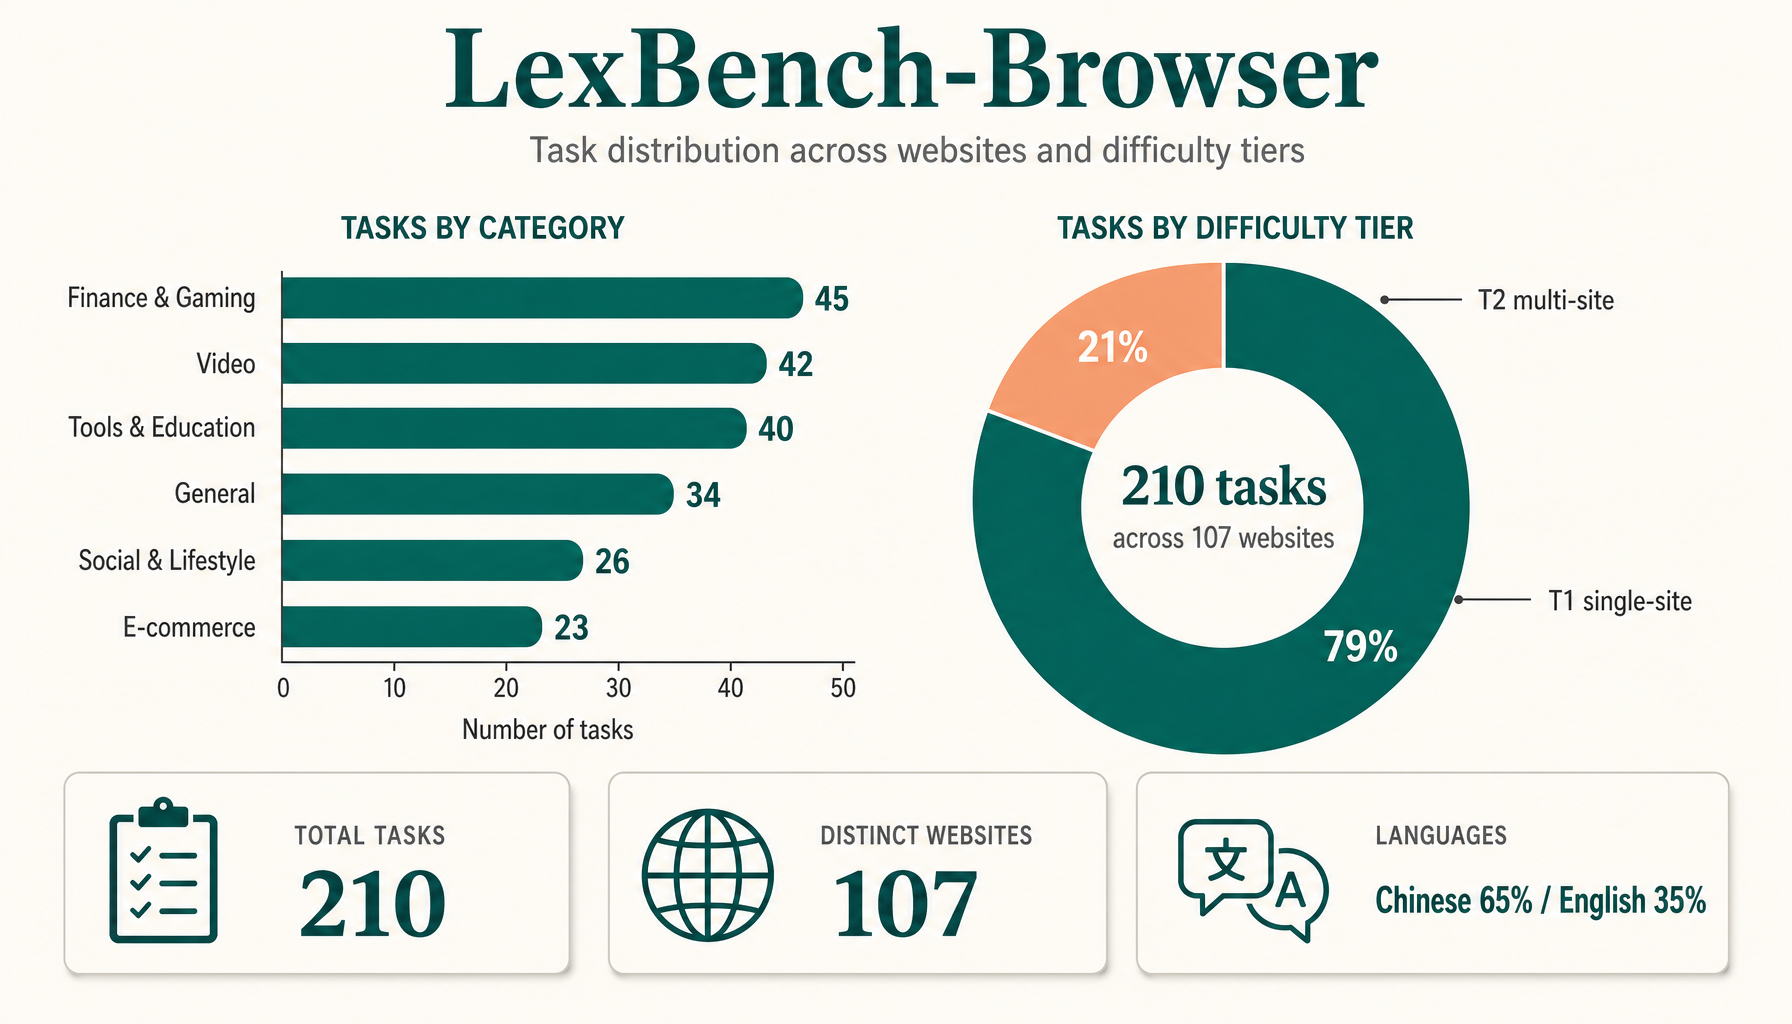
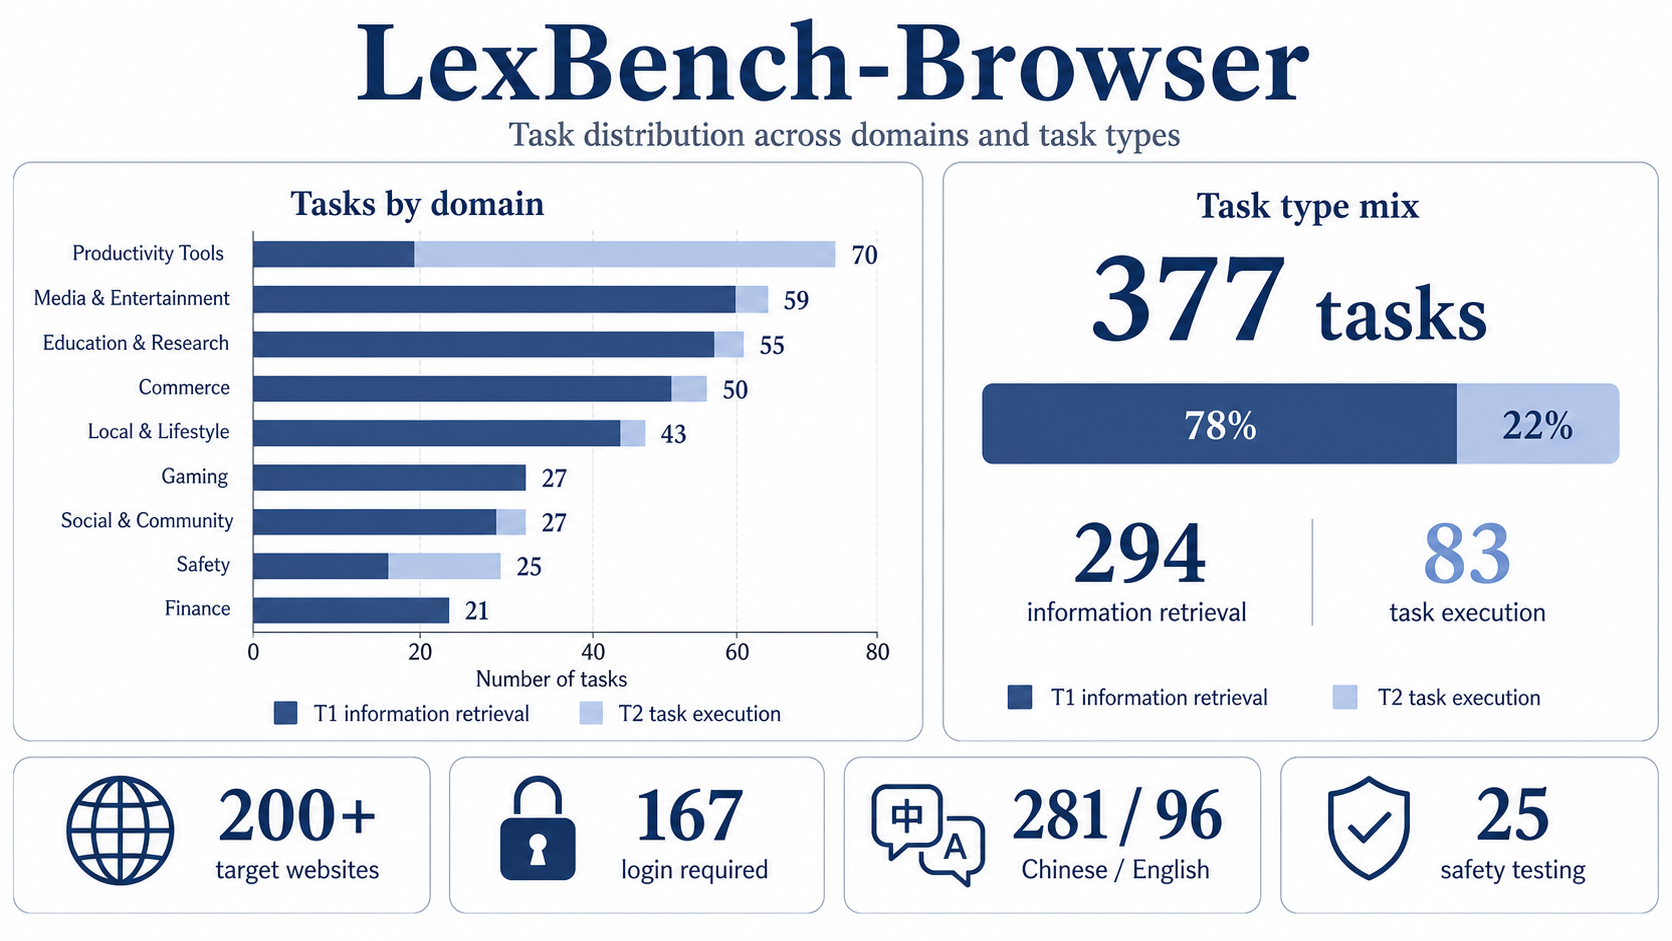
Update LexBench landing page (#65)

diff --git a/landing/index.html b/landing/index.html
@@ -10,7 +10,7 @@
 <meta property="og:type" content="website">
 <meta property="og:site_name" content="LexBench-Browser">
 <meta property="og:title" content="LexBench-Browser — Real-World Browser Agent Benchmark">
-<meta property="og:description" content="210 public browser-agent tasks across 107 real websites, with multilingual long-tail workflows, stepwise judging, and reproducible leaderboards.">
+<meta property="og:description" content="377 live-web browser-agent tasks across 200+ websites, with multilingual authenticated workflows, stepwise judging, and reproducible leaderboards.">
 <meta property="og:url" content="https://lexmount.github.io/browseruse-agent-bench/">
 <meta property="og:image" content="https://lexmount.github.io/browseruse-agent-bench/assets/img/hero.png">
 <meta name="twitter:card" content="summary_large_image">
@@ -39,7 +39,6 @@
       <a href="#agents">Agents</a>
       <a href="#community">Community</a>
       <a href="#leaderboard">Leaderboard</a>
-      <a href="#citation">Cite</a>
       <a class="topnav-cta" href="https://github.com/lexmount/browseruse-agent-bench" target="_blank" rel="noopener">GitHub →</a>
     </div>
   </div>
@@ -140,43 +139,44 @@
   <div class="container">
     <h2 class="section-title">Tasks</h2>
     <p class="section-lede">
-      The first dataset, <strong>LexBench-Browser</strong>, focuses on browser-agent tasks
-      that resemble actual user workflows: search, e-commerce, video, social, academic and
-      tool-use across both English and Chinese websites, with varying difficulty tiers.
+      <strong>LexBench-Browser</strong> is a live-web benchmark for realistic browser-agent
+      workflows across Chinese and English websites. It covers information retrieval and
+      state-changing task execution, including authenticated and safety-sensitive scenarios
+      that prior benchmarks often under-represent.
     </p>
 
     <div class="stat-grid">
       <div class="stat-card">
-        <div class="stat-num">210</div>
+        <div class="stat-num">377</div>
         <div class="stat-label">Tasks total</div>
-        <div class="stat-sub">across 107 distinct websites</div>
+        <div class="stat-sub">across 200+ target websites</div>
       </div>
       <div class="stat-card">
-        <div class="stat-num">4</div>
-        <div class="stat-label">Reference agents</div>
-        <div class="stat-sub">browser-use · deepbrowse · Agent-TARS · skyvern</div>
+        <div class="stat-num">2</div>
+        <div class="stat-label">Task types</div>
+        <div class="stat-sub">294 information retrieval · 83 task execution</div>
       </div>
       <div class="stat-card">
-        <div class="stat-num">15</div>
+        <div class="stat-num">10</div>
         <div class="stat-label">Models evaluated</div>
-        <div class="stat-sub">GPT · Claude · Gemini · Doubao · Kimi · Qwen · DeepSeek · MiniMax</div>
+        <div class="stat-sub">BU · GLM · GPT · Claude · Gemini · Doubao · Kimi · Qwen · MiniMax</div>
       </div>
       <div class="stat-card">
-        <div class="stat-num">3</div>
-        <div class="stat-label">Browser backends</div>
-        <div class="stat-sub">Chrome-Local · Lexmount Cloud · AgentBay</div>
+        <div class="stat-num">167</div>
+        <div class="stat-label">Login-required tasks</div>
+        <div class="stat-sub">plus 25 safety-testing tasks</div>
       </div>
     </div>
 
     <figure class="wide-fig">
-      <img src="assets/img/task-distribution.png" alt="Task distribution diagram showing the categorical and difficulty breakdown of LexBench-Browser tasks" loading="lazy">
-      <figcaption>Categorical and difficulty distribution across the LexBench-Browser task pool.</figcaption>
+      <img src="assets/img/task-distribution.png" alt="Task distribution diagram showing LexBench-Browser domains and task types" loading="lazy">
+      <figcaption>Domain and task-type distribution across the LexBench-Browser task pool.</figcaption>
     </figure>
     <div class="muted-card">
-      <strong>Login-gated and operation-tier tasks are coming soon.</strong>
-      The next release adds tasks that require account context, multi-step transactions
-      and safety-sensitive flows — to evaluate Agents on the parts of the web that
-      English-only benchmarks miss.
+      <strong>Authenticated and operational workflows are included.</strong>
+      The benchmark contains 281 Chinese and 96 English tasks, with live sessions, account
+      context, multi-step operations and safety-sensitive flows evaluated under the same
+      browser-agent protocol.
     </div>
   </div>
 </section>
@@ -332,13 +332,13 @@
   <div class="container">
     <h2 class="section-title">Leaderboard</h2>
     <p class="section-lede">
-      Live results across all reference agents and models. Click any header to sort. Showing the
-      top 15 entries by success rate.
+      Snapshot results for browser-use on LexBench-Browser across 10 models. Click any header to
+      sort. Showing all 10 entries by success rate.
     </p>
     <div class="lb-meta">
       <span class="lb-pill">benchmark · LexBench-Browser</span>
       <span class="lb-pill">judge · gpt-5.4 (per-task threshold)</span>
-      <span class="lb-pill">snapshot · 2026-04-29</span>
+      <span class="lb-pill">snapshot · 2026-06-16</span>
     </div>
     <div class="lb-wrap">
       <table class="lb-table" id="lb-table">
@@ -354,168 +354,102 @@
           </tr>
         </thead>
         <tbody>
-          <tr data-rank="1" data-agent="browser-use" data-model="claude-opus-4-7" data-browser="Lexmount" data-success="58.0" data-steps="14.20" data-e2e="205.8">
+          <tr data-rank="1" data-agent="browser-use" data-model="dmx-claude-opus-4-8-thinking" data-browser="Lexmount" data-success="75.3" data-steps="16.90" data-e2e="522.4">
             <td class="num">1</td>
             <td><span class="cell-strong">browser-use</span></td>
-            <td><code class="cell-mono">claude-opus-4-7</code></td>
+            <td><code class="cell-mono">dmx-claude-opus-4-8-thinking</code></td>
             <td><span class="browser-pill">Lexmount</span></td>
-            <td class="num"><strong>58.0</strong></td>
-            <td class="num">14.2</td>
-            <td class="num">205.8</td>
+            <td class="num"><strong>75.3</strong></td>
+            <td class="num">16.9</td>
+            <td class="num">522.4</td>
           </tr>
-          <tr data-rank="2" data-agent="browser-use" data-model="kimi-k2.5" data-browser="Lexmount" data-success="58.0" data-steps="24.70" data-e2e="280.1">
+          <tr data-rank="2" data-agent="browser-use" data-model="gpt-5.5" data-browser="Lexmount" data-success="74.3" data-steps="14.00" data-e2e="212.0">
             <td class="num">2</td>
-            <td><span class="cell-strong">browser-use</span></td>
-            <td><code class="cell-mono">kimi-k2.5</code></td>
-            <td><span class="browser-pill">Lexmount</span></td>
-            <td class="num"><strong>58.0</strong></td>
-            <td class="num">24.7</td>
-            <td class="num">280.1</td>
-          </tr>
-          <tr data-rank="3" data-agent="browser-use" data-model="gemini-3.1-pro-preview" data-browser="Lexmount" data-success="56.0" data-steps="13.90" data-e2e="149.0">
-            <td class="num">3</td>
-            <td><span class="cell-strong">browser-use</span></td>
-            <td><code class="cell-mono">gemini-3.1-pro-preview</code></td>
-            <td><span class="browser-pill">Lexmount</span></td>
-            <td class="num"><strong>56.0</strong></td>
-            <td class="num">13.9</td>
-            <td class="num">149.0</td>
-          </tr>
-          <tr data-rank="4" data-agent="browser-use" data-model="gpt-5.5" data-browser="Lexmount" data-success="54.0" data-steps="14.10" data-e2e="273.0">
-            <td class="num">4</td>
             <td><span class="cell-strong">browser-use</span></td>
             <td><code class="cell-mono">gpt-5.5</code></td>
             <td><span class="browser-pill">Lexmount</span></td>
-            <td class="num"><strong>54.0</strong></td>
-            <td class="num">14.1</td>
-            <td class="num">273.0</td>
+            <td class="num"><strong>74.3</strong></td>
+            <td class="num">14.0</td>
+            <td class="num">212.0</td>
           </tr>
-          <tr data-rank="5" data-agent="browser-use" data-model="gemini-3.1-pro-preview" data-browser="Chrome-Local" data-success="54.0" data-steps="14.00" data-e2e="163.3">
+          <tr data-rank="3" data-agent="browser-use" data-model="bu-2-0" data-browser="Lexmount" data-success="68.7" data-steps="17.50" data-e2e="323.8">
+            <td class="num">3</td>
+            <td><span class="cell-strong">browser-use</span></td>
+            <td><code class="cell-mono">bu-2-0</code></td>
+            <td><span class="browser-pill">Lexmount</span></td>
+            <td class="num"><strong>68.7</strong></td>
+            <td class="num">17.5</td>
+            <td class="num">323.8</td>
+          </tr>
+          <tr data-rank="4" data-agent="browser-use" data-model="glm-5.1" data-browser="Lexmount" data-success="68.2" data-steps="22.00" data-e2e="589.7">
+            <td class="num">4</td>
+            <td><span class="cell-strong">browser-use</span></td>
+            <td><code class="cell-mono">glm-5.1</code></td>
+            <td><span class="browser-pill">Lexmount</span></td>
+            <td class="num"><strong>68.2</strong></td>
+            <td class="num">22.0</td>
+            <td class="num">589.7</td>
+          </tr>
+          <tr data-rank="5" data-agent="browser-use" data-model="qwen3.7-max" data-browser="Lexmount" data-success="65.8" data-steps="18.80" data-e2e="487.6">
             <td class="num">5</td>
             <td><span class="cell-strong">browser-use</span></td>
-            <td><code class="cell-mono">gemini-3.1-pro-preview</code></td>
-            <td><span class="browser-pill">Chrome-Local</span></td>
-            <td class="num"><strong>54.0</strong></td>
-            <td class="num">14.0</td>
-            <td class="num">163.3</td>
+            <td><code class="cell-mono">qwen3.7-max</code></td>
+            <td><span class="browser-pill">Lexmount</span></td>
+            <td class="num"><strong>65.8</strong></td>
+            <td class="num">18.8</td>
+            <td class="num">487.6</td>
           </tr>
-          <tr data-rank="6" data-agent="browser-use" data-model="kimi-k2.6" data-browser="Lexmount" data-success="52.0" data-steps="30.30" data-e2e="447.6">
+          <tr data-rank="6" data-agent="browser-use" data-model="gemini-3.1-pro-preview" data-browser="Lexmount" data-success="63.9" data-steps="12.60" data-e2e="368.6">
             <td class="num">6</td>
             <td><span class="cell-strong">browser-use</span></td>
-            <td><code class="cell-mono">kimi-k2.6</code></td>
-            <td><span class="browser-pill">Lexmount</span></td>
-            <td class="num"><strong>52.0</strong></td>
-            <td class="num">30.3</td>
-            <td class="num">447.6</td>
-          </tr>
-          <tr data-rank="7" data-agent="browser-use" data-model="bu-2-0" data-browser="Chrome-Local" data-success="48.0" data-steps="20.80" data-e2e="136.5">
-            <td class="num">7</td>
-            <td><span class="cell-strong">browser-use</span></td>
-            <td><code class="cell-mono">bu-2-0</code></td>
-            <td><span class="browser-pill">Chrome-Local</span></td>
-            <td class="num"><strong>48.0</strong></td>
-            <td class="num">20.8</td>
-            <td class="num">136.5</td>
-          </tr>
-          <tr data-rank="8" data-agent="browser-use" data-model="MiniMax-M2.7" data-browser="Chrome-Local" data-success="42.0" data-steps="27.50" data-e2e="413.1">
-            <td class="num">8</td>
-            <td><span class="cell-strong">browser-use</span></td>
-            <td><code class="cell-mono">MiniMax-M2.7</code></td>
-            <td><span class="browser-pill">Chrome-Local</span></td>
-            <td class="num"><strong>42.0</strong></td>
-            <td class="num">27.5</td>
-            <td class="num">413.1</td>
-          </tr>
-          <tr data-rank="9" data-agent="Agent-TARS" data-model="gemini-3.1-pro-preview" data-browser="Lexmount" data-success="40.0" data-steps="18.40" data-e2e="121.1">
-            <td class="num">9</td>
-            <td><span class="cell-strong">Agent-TARS</span></td>
             <td><code class="cell-mono">gemini-3.1-pro-preview</code></td>
             <td><span class="browser-pill">Lexmount</span></td>
-            <td class="num"><strong>40.0</strong></td>
-            <td class="num">18.4</td>
-            <td class="num">121.1</td>
+            <td class="num"><strong>63.9</strong></td>
+            <td class="num">12.6</td>
+            <td class="num">368.6</td>
           </tr>
-          <tr data-rank="10" data-agent="browser-use" data-model="bu-2-0" data-browser="Lexmount" data-success="40.0" data-steps="23.40" data-e2e="350.7">
-            <td class="num">10</td>
-            <td><span class="cell-strong">browser-use</span></td>
-            <td><code class="cell-mono">bu-2-0</code></td>
-            <td><span class="browser-pill">Lexmount</span></td>
-            <td class="num"><strong>40.0</strong></td>
-            <td class="num">23.4</td>
-            <td class="num">350.7</td>
-          </tr>
-          <tr data-rank="11" data-agent="browser-use" data-model="gemini-2.5-pro" data-browser="Lexmount" data-success="40.0" data-steps="18.70" data-e2e="279.2">
-            <td class="num">11</td>
-            <td><span class="cell-strong">browser-use</span></td>
-            <td><code class="cell-mono">gemini-2.5-pro</code></td>
-            <td><span class="browser-pill">Lexmount</span></td>
-            <td class="num"><strong>40.0</strong></td>
-            <td class="num">18.7</td>
-            <td class="num">279.2</td>
-          </tr>
-          <tr data-rank="12" data-agent="browser-use" data-model="qwen3.5-plus" data-browser="Lexmount" data-success="40.0" data-steps="23.70" data-e2e="326.7">
-            <td class="num">12</td>
-            <td><span class="cell-strong">browser-use</span></td>
-            <td><code class="cell-mono">qwen3.5-plus</code></td>
-            <td><span class="browser-pill">Lexmount</span></td>
-            <td class="num"><strong>40.0</strong></td>
-            <td class="num">23.7</td>
-            <td class="num">326.7</td>
-          </tr>
-          <tr data-rank="13" data-agent="browser-use" data-model="MiniMax-M2.5" data-browser="Lexmount" data-success="38.0" data-steps="27.40" data-e2e="354.3">
-            <td class="num">13</td>
-            <td><span class="cell-strong">browser-use</span></td>
-            <td><code class="cell-mono">MiniMax-M2.5</code></td>
-            <td><span class="browser-pill">Lexmount</span></td>
-            <td class="num"><strong>38.0</strong></td>
-            <td class="num">27.4</td>
-            <td class="num">354.3</td>
-          </tr>
-          <tr data-rank="14" data-agent="browser-use" data-model="MiniMax-M2.7" data-browser="Lexmount" data-success="36.0" data-steps="22.40" data-e2e="408.9">
-            <td class="num">14</td>
-            <td><span class="cell-strong">browser-use</span></td>
-            <td><code class="cell-mono">MiniMax-M2.7</code></td>
-            <td><span class="browser-pill">Lexmount</span></td>
-            <td class="num"><strong>36.0</strong></td>
-            <td class="num">22.4</td>
-            <td class="num">408.9</td>
-          </tr>
-          <tr data-rank="15" data-agent="browser-use" data-model="doubao-seed-2-0-pro" data-browser="Lexmount" data-success="36.0" data-steps="17.30" data-e2e="385.3">
-            <td class="num">15</td>
+          <tr data-rank="7" data-agent="browser-use" data-model="doubao-seed-2-0-pro" data-browser="Lexmount" data-success="61.8" data-steps="17.70" data-e2e="595.3">
+            <td class="num">7</td>
             <td><span class="cell-strong">browser-use</span></td>
             <td><code class="cell-mono">doubao-seed-2-0-pro</code></td>
             <td><span class="browser-pill">Lexmount</span></td>
-            <td class="num"><strong>36.0</strong></td>
-            <td class="num">17.3</td>
-            <td class="num">385.3</td>
+            <td class="num"><strong>61.8</strong></td>
+            <td class="num">17.7</td>
+            <td class="num">595.3</td>
+          </tr>
+          <tr data-rank="8" data-agent="browser-use" data-model="gemini-3.5-flash" data-browser="Lexmount" data-success="58.6" data-steps="26.90" data-e2e="376.4">
+            <td class="num">8</td>
+            <td><span class="cell-strong">browser-use</span></td>
+            <td><code class="cell-mono">gemini-3.5-flash</code></td>
+            <td><span class="browser-pill">Lexmount</span></td>
+            <td class="num"><strong>58.6</strong></td>
+            <td class="num">26.9</td>
+            <td class="num">376.4</td>
+          </tr>
+          <tr data-rank="9" data-agent="browser-use" data-model="kimi-k2.6" data-browser="Lexmount" data-success="53.3" data-steps="23.60" data-e2e="433.4">
+            <td class="num">9</td>
+            <td><span class="cell-strong">browser-use</span></td>
+            <td><code class="cell-mono">kimi-k2.6</code></td>
+            <td><span class="browser-pill">Lexmount</span></td>
+            <td class="num"><strong>53.3</strong></td>
+            <td class="num">23.6</td>
+            <td class="num">433.4</td>
+          </tr>
+          <tr data-rank="10" data-agent="browser-use" data-model="MiniMax-M3" data-browser="Lexmount" data-success="40.1" data-steps="20.10" data-e2e="584.5">
+            <td class="num">10</td>
+            <td><span class="cell-strong">browser-use</span></td>
+            <td><code class="cell-mono">MiniMax-M3</code></td>
+            <td><span class="browser-pill">Lexmount</span></td>
+            <td class="num"><strong>40.1</strong></td>
+            <td class="num">20.1</td>
+            <td class="num">584.5</td>
           </tr>
         </tbody>
       </table>
     </div>
     <p class="muted small">
-      Live source: leaderboard server at the team intranet. Data is automatically pulled from
+      Snapshot source:
       <code>experiments/{benchmark}/{split}/{agent}/{model_id}/{ts}/</code> run dirs.
-    </p>
-  </div>
-</section>
-
-<section id="citation" class="section section-alt">
-  <div class="container">
-    <h2 class="section-title">Cite</h2>
-    <p class="section-lede">If you use LexBench-Browser in your work, please cite:</p>
-    <div class="bibtex">
-      <button class="copy-btn" type="button" data-target="#bibtex-block">Copy</button>
-      <pre><code id="bibtex-block">@misc{lexbench_browser_2026,
-  title        = {LexBench-Browser: A Real-World Browser Agent Benchmark with Long-Tail and Multilingual Tasks},
-  author       = {Lexmount Research and Collaborators},
-  year         = {2026},
-  howpublished = {\url{https://lexmount.github.io/browseruse-agent-bench/}},
-  note         = {Open benchmark; v1.0 reference release}
-}</code></pre>
-    </div>
-    <p class="muted small">
-      Acknowledgements: integration scaffolding adapted patterns from browser-use, skyvern,
-      Agent-TARS and deepbrowse upstream codebases.
     </p>
   </div>
 </section>